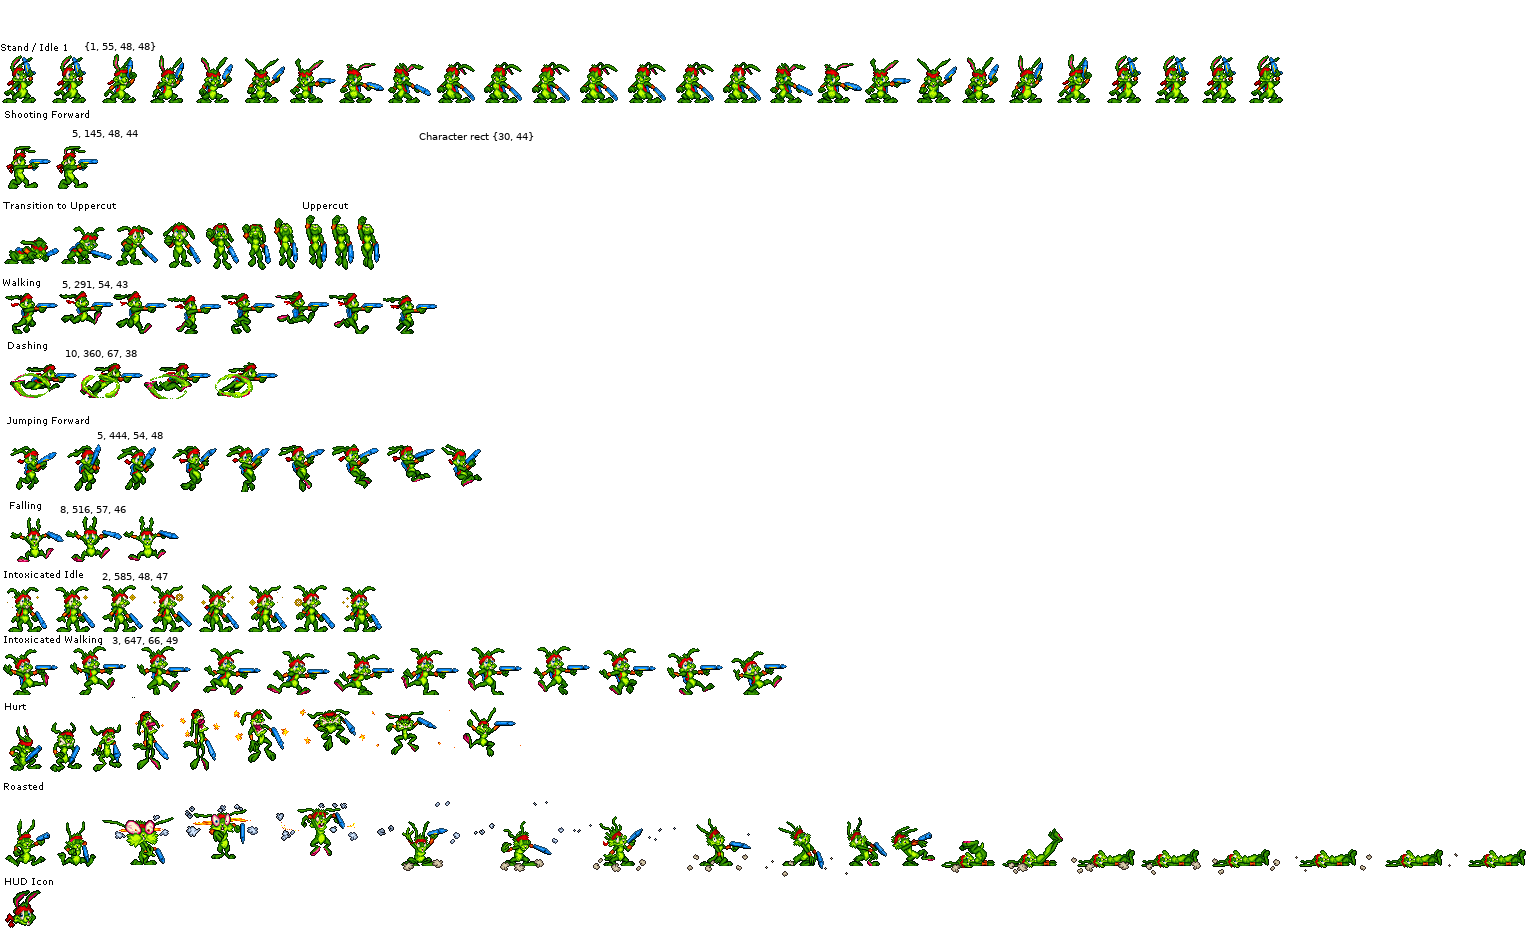
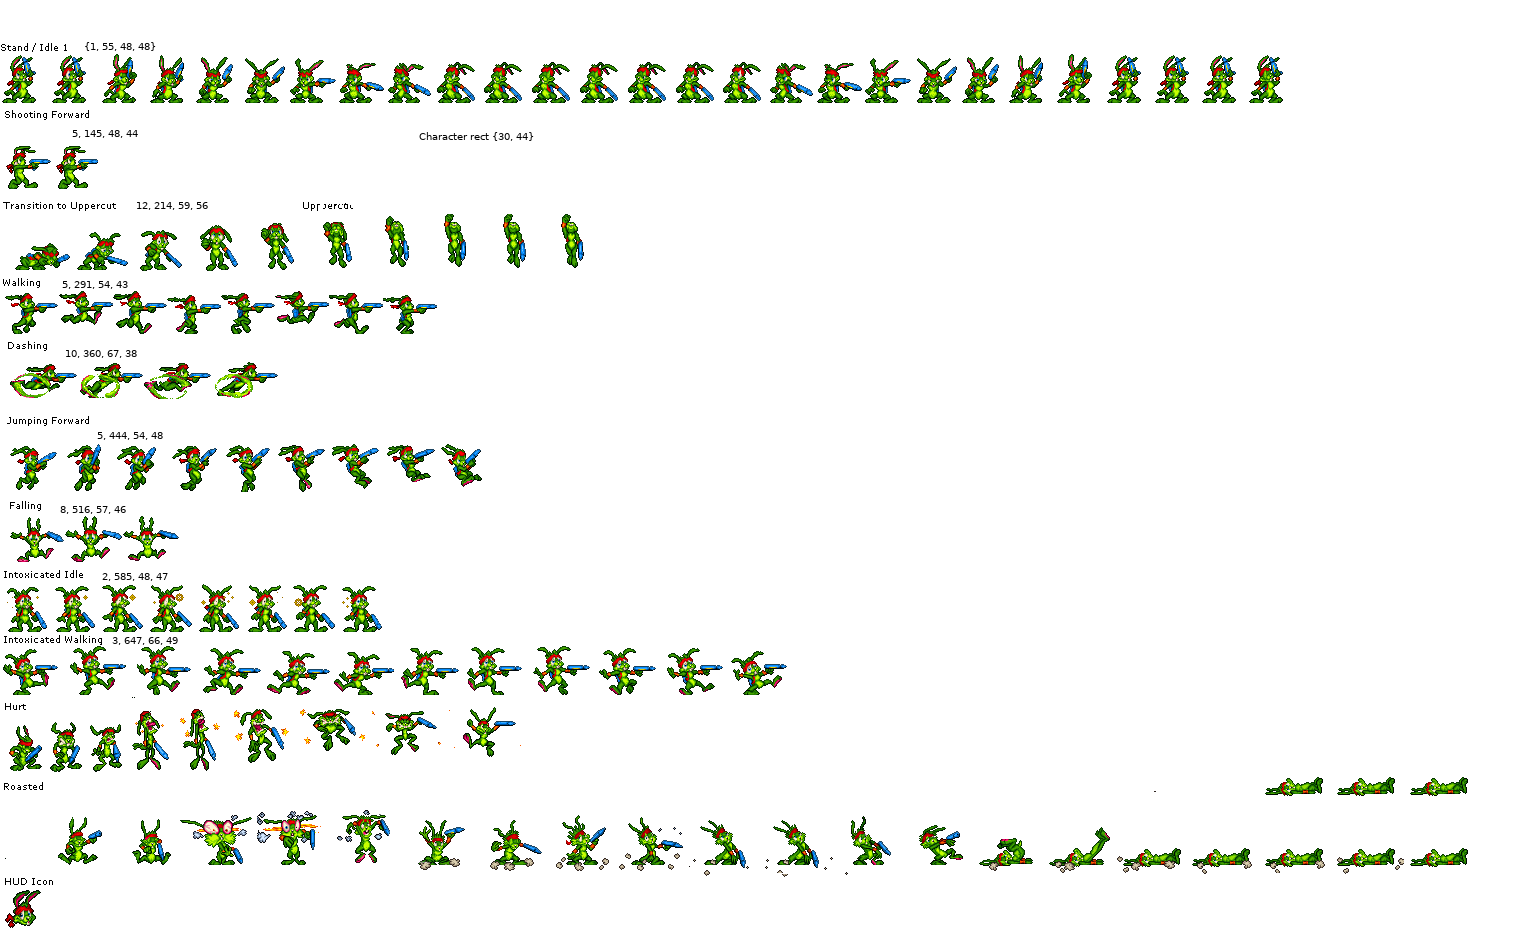
fixing knockback and adding damage animations

Changed region(s): [[0.0, 0.8638, 1.0, 0.9255], [0.0, 0.216, 0.3983, 0.3085], [0.8272, 0.833, 0.9498, 0.8638]]

diff --git a/server/game_logic/characters/player.cpp b/server/game_logic/characters/player.cpp
@@ -174,8 +174,20 @@ bool Player::is_shooting() {
 // ------------ Override Methods --------------
 
 void Player::update_body() {
-    if (is_dead()) {  // if the player is dead, then it shouldnt move
-        velocity = Vector2D(NONE, NONE);
+
+    if (health == DYING) {  // if the player is dead, then it shouldnt move
+
+        state = dying_duration > 0 ? STATE_DYING : STATE_DEAD;
+
+        if (dying_duration > 0) {  // the character is dying!
+            dying_duration--;
+        } else {  // the character is dead!
+            health = NONE;
+            set_active_status(false);
+        }
+
+        velocity = Vector2D(NONE, config->player_falling_speed);
+
         return;
     }
 
@@ -256,8 +268,10 @@ void Player::handle_colision(CollisionObject* other) {
 }
 
 void Player::knockback(int force) {
-    velocity.y = -force;
-    velocity.x = -direction * (on_floor ? force : force * 25);
+
+    velocity.y = -abs(force);
+    velocity.x = force * 25;
+    direction = force > 0 ? RIGHT_DIR : LEFT_DIR;
     on_floor = false;
     is_knocked_back = true;
 }
@@ -269,6 +283,7 @@ void Player::revive(Vector2D new_position) {
     this->state = STATE_IDLE_RIGHT;
     position = new_position;
     is_sprinting = false;
+    dying_duration = DYING_TIME;
     reset_intoxication();
     reset_invincibility();
     velocity = Vector2D(NONE, config->player_falling_speed);
@@ -284,10 +299,9 @@ void Player::take_damage(int damage) {
         health -= damage;
     }
 
-    if (health < NONE) {
-        health = NONE;
-        state = STATE_DEAD;
-        set_active_status(false);
+    if (health <= DYING) {
+        health = DYING;
+        state = STATE_DYING;
         velocity = Vector2D(NONE, NONE);
     } else {
         state = STATE_DAMAGED;
@@ -298,6 +312,8 @@ void Player::print_info() {
     std::cout << "--------------------------------" << std::endl;
     std::cout << "| Player Id: " << id << " |" << std::endl;
     std::cout << "| Character: " << (int)character_reference << " |" << std::endl;
+    std::cout << "| Active Status: " << is_active_object() << " |" << std::endl;
+    std::cout << "| State: " << (int)get_state() << " |" << std::endl;
     std::cout << "| Position: (" << position.x << " , " << position.y << ") |" << std::endl;
     std::cout << "| Velocity: (" << velocity.x << " , " << velocity.y << ") |" << std::endl;
     std::cout << "| Direction: " << direction << " |" << std::endl;
@@ -309,9 +325,9 @@ void Player::print_info() {
     std::cout << "| Shoot status: " << weapons[selected_weapon]->shoot_rate_status() << " |"
               << std::endl;
     std::cout << "| Points: " << points << " |" << std::endl;
-    std::cout << "| State: " << (int)get_state() << " |" << std::endl;
     std::cout << "| Respawn Cooldown: " << revive_cooldown << " |" << std::endl;
     std::cout << "| Respawn Counter: " << revive_counter << " |" << std::endl;
+    std::cout << "| Dying Counter: " << dying_duration << " |" << std::endl;
     std::cout << "| Intoxication Cooldown: " << intoxication_cooldown << " |" << std::endl;
     std::cout << "| Invincibility Cooldown: " << invincibility_cooldown << " |" << std::endl;
 }

diff --git a/common/common_constants.h b/common/common_constants.h
@@ -49,7 +49,8 @@ typedef enum: uint8_t {
     STATE_INTOXICATED_MOV_LEFT = 0X14,
     STATE_SPECIAL_RIGHT = 0X15,
     STATE_SPECIAL_LEFT = 0X16,
-    STATE_DEAD = 0X17
+    STATE_DYING = 0X17,
+    STATE_DEAD = 0X18
 } state_t;
 
 const std::map<uint8_t, std::string> map_states_to_animations = {
@@ -70,6 +71,7 @@ const std::map<uint8_t, std::string> map_states_to_animations = {
         {STATE_INTOXICATED_MOV_LEFT, "intoxicated_moving_left"},
         {STATE_SPECIAL_RIGHT, "special_right"},
         {STATE_SPECIAL_LEFT, "special_left"},
+        {STATE_DYING, "dying"},
         {STATE_DEAD, "dead"}};
 
 // Weapons

diff --git a/server/game_logic/characters/character.cpp b/server/game_logic/characters/character.cpp
@@ -59,7 +59,7 @@ bool CharacterBody::try_revive() {
         return false;
     }
 
-    if (revive_counter <= NONE && !is_active_object()) {
+    if (revive_counter <= NONE) {
         return true;
     } else {
         this->revive_counter--;
@@ -101,7 +101,11 @@ void CharacterBody::jump() {
     }
 }
 
-void CharacterBody::knockback(int force) { velocity += direction * force; }
+void CharacterBody::knockback(int force) {
+    velocity.y = -abs(force);
+    velocity.x = force * 5;
+    on_floor = false;
+}
 
 void CharacterBody::update_body() {
     if (!on_floor) {

diff --git a/server/game_logic/weapons/bullet.cpp b/server/game_logic/weapons/bullet.cpp
@@ -64,6 +64,8 @@ void Bullet::handle_colision(CollisionObject* other) {
 
 
             character->take_damage(bullet_damage);
+            int knockback_dir = direction == GOING_RIGHT ? 1 : -1;
+            character->knockback(knockback_dir * 10);
             //            player_owner.add_points(BULLET_POINTS);   //TODO dar punto por hit??
             if (character->is_dead()) {
                 if (character->get_id() < 100) {

diff --git a/game_engine/physics_engine/collision_manager.cpp b/game_engine/physics_engine/collision_manager.cpp
@@ -57,11 +57,13 @@ bool CollisionManager::can_be_placed(std::shared_ptr<CollisionObject> obj,
 }
 
 void CollisionManager::add_object(std::shared_ptr<StaticBody> obj) {
+
     static_bodies.emplace_back(obj);
     place_object_in_grid(obj);
 }
 
 void CollisionManager::track_dynamic_body(std::shared_ptr<DynamicBody> obj) {
+
     dynamic_bodies.emplace_back(obj, obj->position);
     place_object_in_grid(obj);
 }

diff --git a/server/game_logic/match.cpp b/server/game_logic/match.cpp
@@ -57,13 +57,13 @@ void Match::run() {
             respawn_items();
 
 #ifdef LOG_VERBOSE
-            for (auto& enemy: enemies) {
+            /* for (auto& enemy: enemies) {
                 enemy->print_info();
             }
 
             for (auto& player: players) {
                 player.second->print_info();
-            }
+            } */
 #endif
 
             countdown_match(runTime, frameStart);

diff --git a/server/game_logic/characters/player.h b/server/game_logic/characters/player.h
@@ -16,6 +16,8 @@
 #include "character.h"
 
 #define GRAVITY 1
+#define DYING 1
+#define DYING_TIME 160
 
 class Weapon;
 
@@ -36,9 +38,10 @@ private:
     int shooting_height;
     std::shared_ptr<Configuration> config;
 
+    int dying_duration = DYING_TIME;
+
     // Cheats
     bool invincibility_cheat_active = false;
-
 
     // Configs
     bool is_sprint_allowed = true;

diff --git a/server/game_logic/characters/enemy.cpp b/server/game_logic/characters/enemy.cpp
@@ -114,7 +114,7 @@ void Enemy::print_info() {
 
 void Enemy::attack(CharacterBody* player) {
     if (attack_cooldown <= 0) {
-        player->knockback(20);
+        player->knockback(direction * 20);
         player->take_damage(this->attack_damage);
         attack_cooldown = ATTACK_COOLDOWN;
     }
